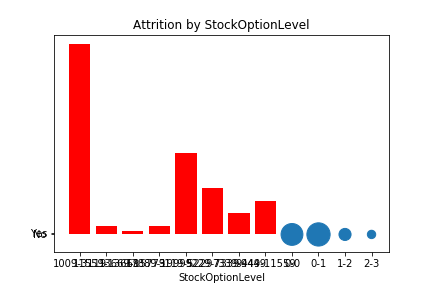
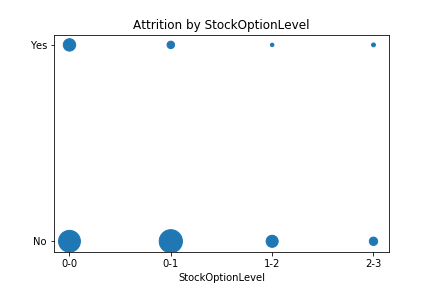
t

diff --git a/graphing.py b/graphing.py
@@ -1,0 +1,128 @@
+# -*- coding: utf-8 -*-
+"""
+Created on Sun Sep 23 21:33:13 2018
+
+@author: ASUS
+"""
+
+import matplotlib.pyplot as mp
+import matplotlib.image as mpimg
+import pandas as pd
+import scipy.cluster.hierarchy as sch
+import numpy as np
+
+# open graph based on path
+def openGraph(store, col):
+    img = mpimg.imread(store[col])
+    mp.imshow(img)
+    mp.show()
+
+#generate stratas for integer values
+def generateStrata(tem):
+    classes=10
+    strata=pd.DataFrame(columns=['cap','label'])
+    minv=min(tem)
+    maxv=max(tem)
+    interval=(maxv-minv)/(classes-1)
+    for i in list(range(1,classes+1)):
+        cap=round(minv+(interval*i))
+        if i > 1:
+            label=str(strata.iloc[i-2,0])+'-'+str(cap)
+        else:
+            label=str(minv)+'-'+str(cap)
+        strata.loc[i]=[cap, label]
+    return strata
+
+# identify strata for value
+def findStrata(val, strata):
+    for i in range(len(strata)):
+        if val<=strata.iloc[i,0]:
+            return strata.iloc[i,1]
+
+#change numerical column to categorical
+def classify(tem):
+    store=[]
+    strata=generateStrata(tem)
+    for i in list(tem):
+        store.append(findStrata(i,strata))
+        
+    return store, strata
+
+# get aggregated values based on categories
+def processGraph(data, col):
+    tem=data[col]
+    if str(tem.dtype)=='object':
+        data['class']=list(tem)
+    else:
+        data['class'], strata=classify(tem)
+        
+    data=data.groupby(['Attrition', 'class']).count().reset_index()
+    return data
+
+#main call
+def plotgraph(df):
+    store={}
+    for col in list(df):
+        if col != 'Attrition':
+            data=processGraph(df[['Attrition',col]], col)
+            
+            mp.scatter(data['class'], data['Attrition'],s=data[col])
+            mp.title('Attrition by '+ str(col))
+            mp.xlabel(str(col))
+            path='graphs/'+col+'_scatter'+'.png'
+            mp.savefig(path)
+            mp.close()
+            store[str(col)+'_scatter']=path
+            
+            try:
+                d1=data[data['Attrition']=='Yes']
+                d2=data[data['Attrition']=='No']
+                p1=mp.bar(d1['class'], d1[col], color='r', )
+                p2=mp.bar(d1['class'], d2[col], bottom=d1[col],color='b')
+                mp.title('Attrition by '+ str(col))
+                mp.xlabel(str(col))
+                mp.legend((p1[0], p2[0]), ('Yes', 'No'))
+                path='graphs/'+col+'_bar.png'
+                mp.savefig(path)
+                mp.close()
+                store[str(col)+'_bar']=path
+            except:
+                mp.close()
+                print(str(col)+' error')
+    return store
+
+def plot_corr(df,size, path):
+    corr = df.corr()
+    
+    # Plot the correlation matrix
+    fig, ax = mp.subplots(figsize=(size, size))
+    cax = ax.matshow(corr, cmap='RdYlGn')
+    mp.xticks(range(len(corr.columns)), corr.columns, rotation=90);
+    mp.yticks(range(len(corr.columns)), corr.columns);
+    
+    # Add the colorbar legend
+    cbar = fig.colorbar(cax, ticks=[-1, 0, 1], aspect=40, shrink=.8)
+    path='graphs/corr.png'
+    mp.savefig(path)
+    mp.close()
+    
+def corrgraph(df):
+    X = df.corr().values
+    d = sch.distance.pdist(X)   # vector of ('55' choose 2) pairwise distances
+    L = sch.linkage(d, method='complete')
+    ind = sch.fcluster(L, 0.5*d.max(), 'distance')
+    columns = [df.columns.tolist()[i] for i in list((np.argsort(ind)))]
+    df2 = df.reindex_axis(columns, axis=1)
+    
+    path='graphs/corr.png'
+    plot_corr(df2, 10, path)
+    
+    return path
+
+def graph(df, converteddf):
+    store=plotgraph(df)
+    print('variables graph plotted')
+    store['corr']=corrgraph(converteddf)
+    print('corr graph plotted')
+    
+    return store

diff --git a/ml.py b/ml.py
@@ -1,0 +1,89 @@
+# -*- coding: utf-8 -*-
+"""
+Created on Sun Sep 23 21:48:24 2018
+
+@author: ASUS
+"""
+
+import pandas as pd
+from sklearn.linear_model import LogisticRegression
+from sklearn import datasets, metrics
+from sklearn.utils import shuffle
+from sklearn.metrics import average_precision_score
+import dataclean
+import numpy as np
+
+trainpercen=0.8
+valpercen=0.2
+testpercen=0
+datasets={}
+
+def splitSets(df):
+    global datasets
+    df2=shuffle(df)
+    
+    trainnum=round(trainpercen*len(df2))
+    if testpercen==0:
+        valnum=len(df2)-trainnum
+    else:
+        valnum=round(valpercen*len(df2))
+    
+    datasets['trainx']=df2.loc[list(range(trainnum))].drop(['Attrition'], axis=1)
+    datasets['valx']=df2.loc[list(range(trainnum, trainnum+valnum))].drop(['Attrition'], axis=1)
+    if testpercen >0:
+        datasets['testx']=df2.loc[list(range(trainnum+valnum, len(df2)))].drop(['Attrition'], axis=1)
+    
+    datasets['trainy']=df2.loc[list(range(trainnum))]['Attrition']
+    datasets['valy']=df2.loc[list(range(trainnum, trainnum+valnum))]['Attrition']
+    
+    if testpercen >0:
+        datasets['testx']=df2.loc[list(range(trainnum+valnum, len(df2)))].drop(['Attrition'])
+        datasets['testy']=df2.loc[list(range(trainnum+valnum, len(df2)))]['Attrition']
+    
+    return datasets
+
+def trainLogisticsModel(train, train_labels):
+    logreg = LogisticRegression()
+    logreg.fit(train, train_labels)
+    return logreg
+
+def getAccuracy(model, test, test_label):
+    pred = model.predict_proba(test)
+    threshold=0.6
+    pred=np.array(pred)[:,1]
+    pred=(pred>threshold).astype(int)
+    
+    results=pred+2*test_label
+    
+    tp=len(results[results==3])
+    tn=len(results[results==0])
+    fp=len(results[results==1])
+    fn=len(results[results==2])
+    
+    abs_table=pd.DataFrame(columns=['actual negative','actual positive'])
+    abs_table.loc['tested negative']=[tn, fn]
+    abs_table.loc['tested positive']=[fp, tp]
+    
+    percen_table=pd.DataFrame(columns=['actual negative','actual positive'])
+    percen_table.loc['tested negative']=[tn/(tn+fp), fn/(fn+tp)]
+    percen_table.loc['tested positive']=[fp/(tn+fp), tp/(fn+tp)]
+    
+    print(abs_table)
+    print(percen_table)
+    print('score: '+str((tp+tn)/len(test)))
+    
+    return [abs_table,percen_table]
+
+def train(df):
+    splitSets(df)
+    print('datasets split')
+    model=trainLogisticsModel(datasets['trainx'], datasets['trainy'])
+    print('model trained')
+    results = getAccuracy(model, datasets['valx'],datasets['valy'])
+#    print('score: '+str(score))
+    
+    return results
+
+df=pd.read_csv('Dataset - Human Resource.csv')
+leandf, converteddf, cor, info, rawcorr = dataclean.dataCleanse(df)
+results=train(converteddf)

diff --git a/dataclean.py b/dataclean.py
@@ -1,0 +1,66 @@
+# -*- coding: utf-8 -*-
+"""
+Created on Fri Sep 21 16:33:23 2018
+
+@author: woon.zhenhao
+"""
+
+import pandas as pd
+from sklearn import preprocessing as pp
+
+info={}
+
+#convert categorical columns to numerical
+def cleanTable(df):
+    global info
+    transformations={}
+    df2=df.copy()
+    d=list(df2.select_dtypes(include=['object']))
+    for i in d:
+        tem=df2[i].astype('category')
+        le=pp.LabelEncoder()
+        le.fit(tem)
+        df2[i]=le.transform(tem)
+        transformations[i]=le
+    
+    info['transformations']=transformations
+    return df2
+
+#find nan values in list
+def findNan(df):
+    return df!=df
+
+#clean up columns
+def filterCorr(df):
+    global info
+    #find corr
+    rawcorr=df.corr()
+    store=pd.DataFrame()
+    store['cor']=rawcorr['Attrition']
+    store['abs cor']=abs(store['cor'])
+    store=store.sort_values(by=['abs cor'], ascending=False)
+    cor=store['abs cor']
+    
+    #remove Nan columns
+    nans=findNan(cor)
+    removedColumns=list(nans[nans==True].index)
+    df2=df.drop(removedColumns,axis=1)
+    
+    #remove low corr columns
+    tem=list(cor[cor<0.05].index)
+    removedColumns+=tem
+    df2=df2.drop(tem, axis=1)
+    
+    info['removed columns']=removedColumns
+    return df2,store, rawcorr
+
+#main call
+def dataCleanse(df):
+    global info
+    df2=cleanTable(df)
+    print('table transformed')
+    converteddf, cor, rawcorr=filterCorr(df2)
+    print('table cleaned based on corr')
+    leandf=df.drop(info['removed columns'], axis=1)
+    
+    return leandf, converteddf, cor, info, rawcorr

diff --git a/main.py b/main.py
@@ -1,0 +1,15 @@
+# -*- coding: utf-8 -*-
+"""
+Created on Sun Sep 23 21:32:02 2018
+
+@author: ASUS
+"""
+
+import dataclean
+import graphing
+import pandas as pd
+
+fname='Dataset - Human Resource.csv'
+df=pd.read_csv(fname)
+leandf, converteddf, cor, info, rawcorr=dataclean.dataCleanse(df)
+graphs=graphing.graph(leandf,converteddf)
